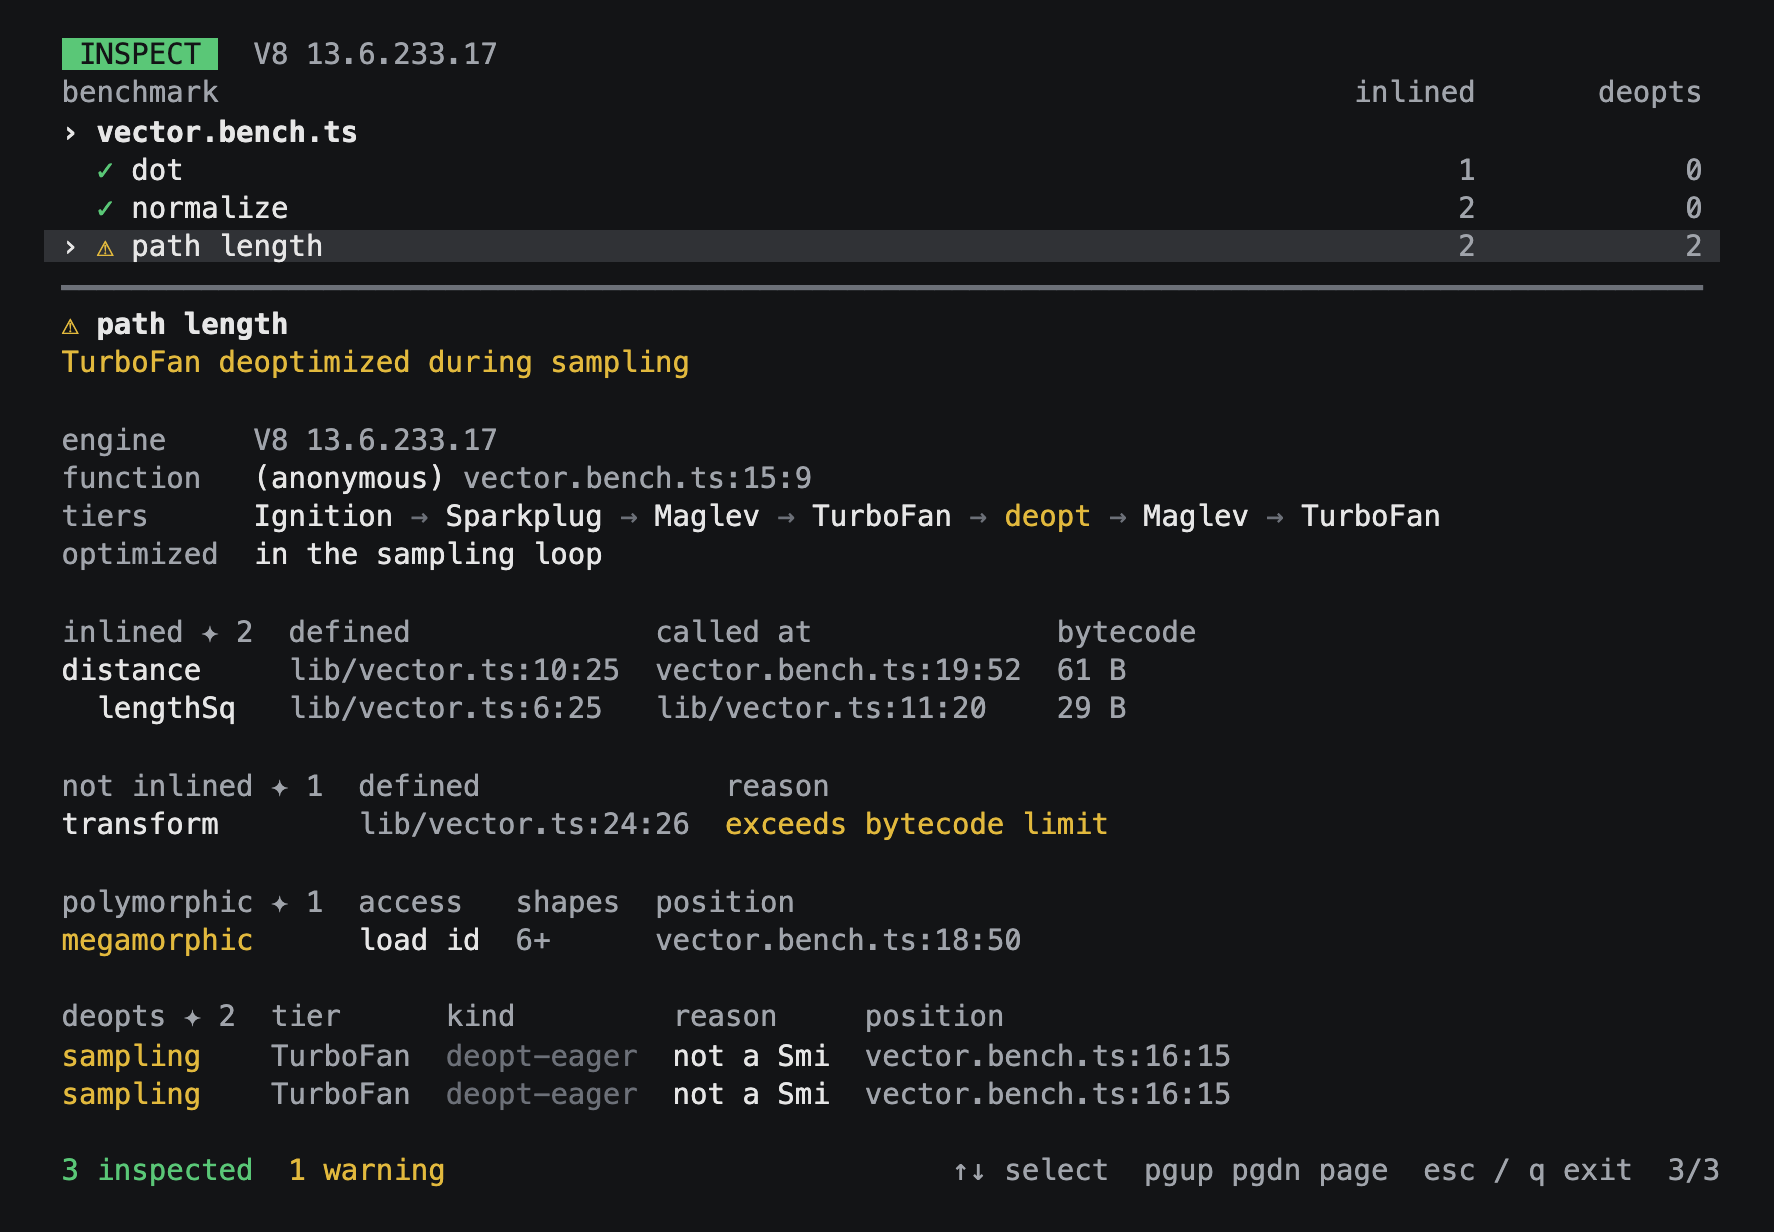
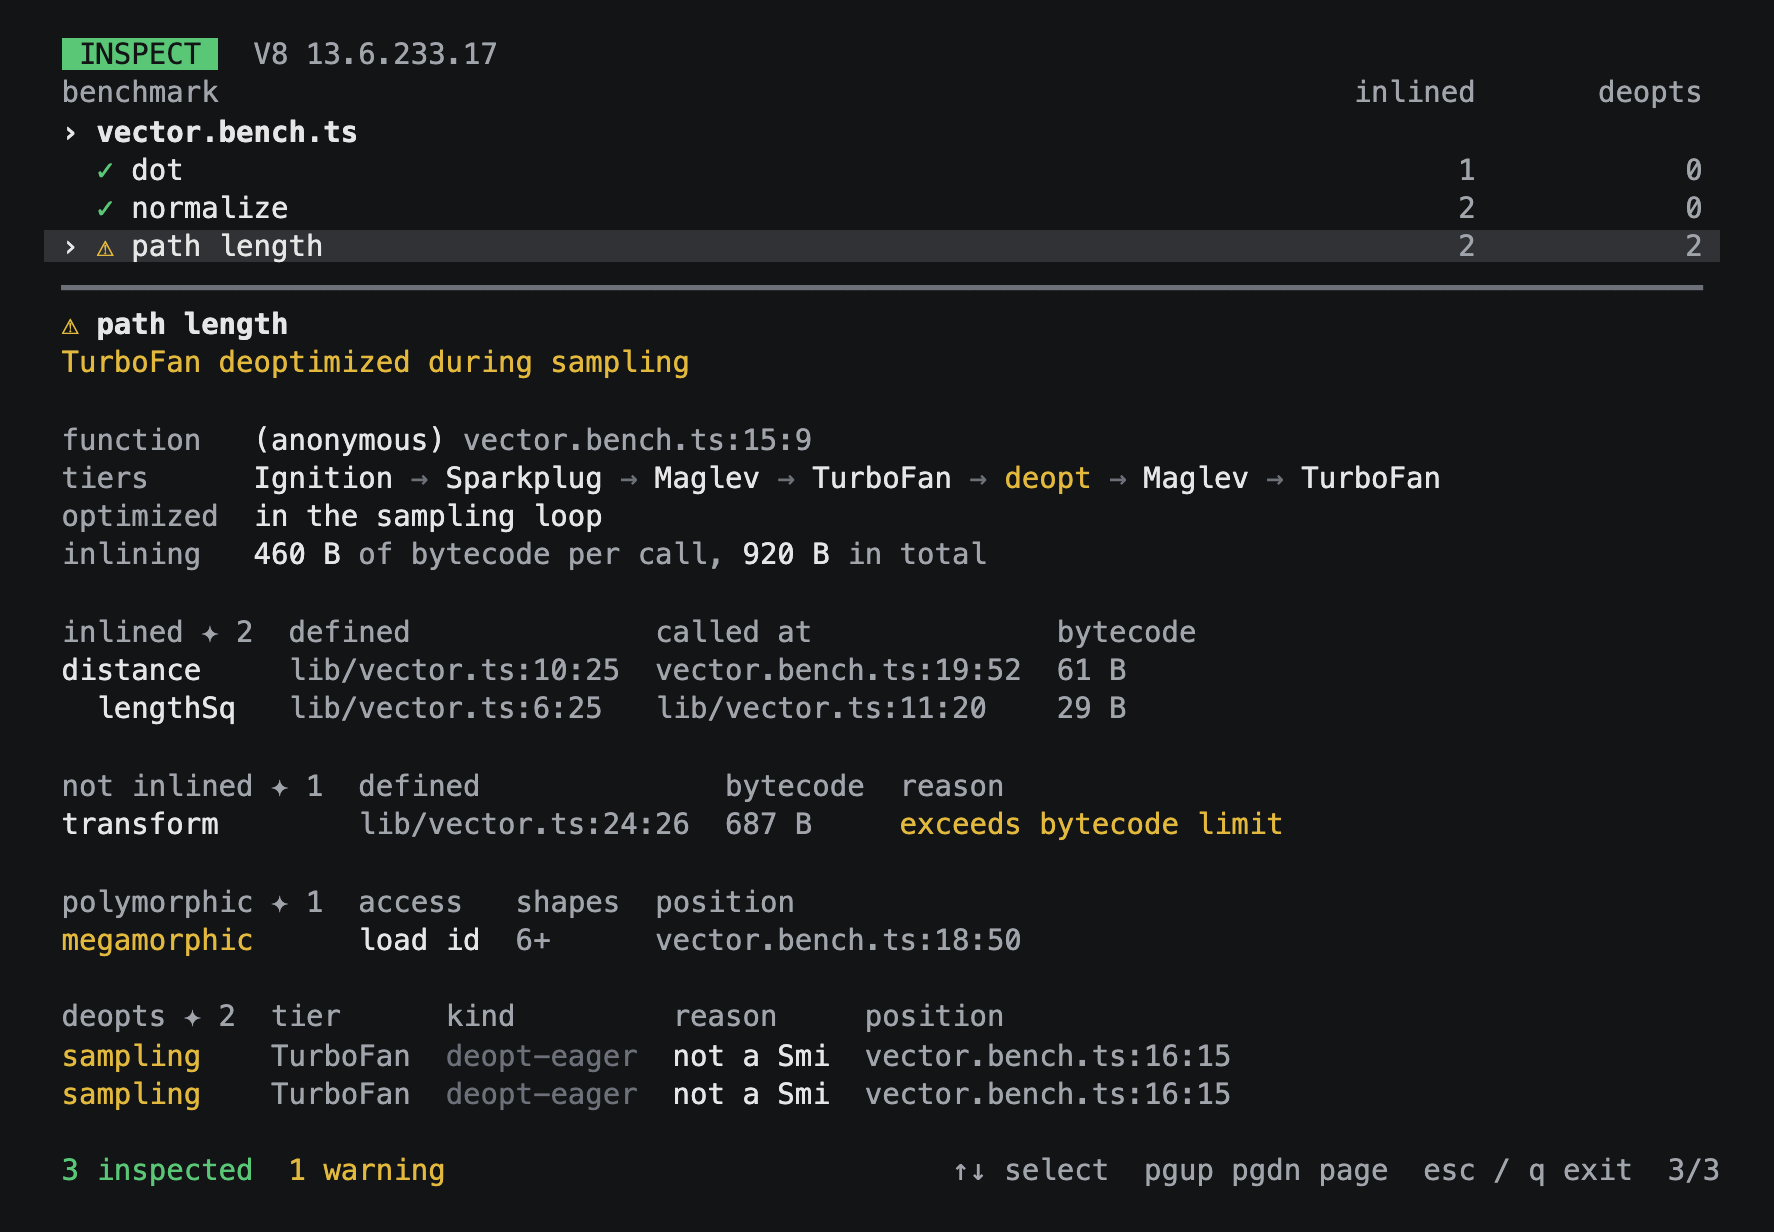
✨ List the bytecode of what a bench calls, with sizes and inlining limits

Changed region(s): [[0.031, 0.3393, 0.8061, 0.4627], [0.403, 0.6169, 0.7131, 0.6786]]

diff --git a/src/bench/node-inspect.ts b/src/bench/node-inspect.ts
@@ -1,3 +1,4 @@
+import { execFileSync } from 'node:child_process';
 import { readFileSync, readdirSync } from 'node:fs';
 import { isAbsolute, join, relative } from 'node:path';
 import { fileURLToPath } from 'node:url';
@@ -215,11 +216,16 @@ export function readNodeInspection(
   // The trace prints tagged pointers, one above the addresses in the log.
   const traced = (pointer: string) => sfis.ever.get(Number(pointer) - 1);
   const traces = readFileSync(join(directory, 'traces.txt'), 'utf8');
-  const sizes = new Map<number | undefined, number>();
-  for (const [, pointer, size] of traces.matchAll(
-    /- target: \S+ \{(0x[0-9a-f]+) <SharedFunctionInfo[^>]*>\}, bytecode size: (\d+)/g
+  // The trace holds the bytecode of every function, printed when it was compiled.
+  const listings = new Map<number | undefined, string>();
+  for (const [, pointer, listing] of traces.matchAll(
+    /^\[generated bytecode for function: [^\n]*\((0x[0-9a-f]+) <SharedFunctionInfo[^\n]*\n([^]*?)^(?:Handler Table|\[)/gm
   ))
-    sizes.set(traced(pointer), Number(size));
+    listings.set(traced(pointer), listing);
+  const bytes = (fn: number) => {
+    const length = /^Bytecode length: (\d+)/.exec(listings.get(fn) ?? '')?.[1];
+    return length === undefined ? null : Number(length);
+  };
   const calls = (code: Code, parent: number): InlinedCall[] =>
     code.inlined.flatMap((call, index) =>
       call.parent === parent
@@ -227,7 +233,7 @@ export function readNodeInspection(
             {
               ...named(call.fn),
               at: position(parent < 0 ? code.fn : code.inlined[parent].fn, call.offset),
-              bytecodeBytes: sizes.get(call.fn) ?? null,
+              bytecodeBytes: bytes(call.fn),
               calls: calls(code, index),
             },
           ]
@@ -237,6 +243,7 @@ export function readNodeInspection(
   // The trace of each optimizing compile lists every call it looked at, in
   // the order the log records the code those compiles produced.
   const rejected: Inspection['rejected'] = [];
+  const refused: number[] = [];
   const compile =
     host &&
     [
@@ -268,36 +275,45 @@ export function readNodeInspection(
       const file = functions.get(fn!)?.file ?? '';
       if (fn === undefined || fn === host.fn || fn === workload) continue;
       if (host.inlined.some((call) => call.fn === fn)) continue;
-      if (/^file:|^\/|^[A-Za-z]:/.test(file) && !file.startsWith(own))
-        rejected.push({ ...named(fn), reason });
+      if (!/^file:|^\/|^[A-Za-z]:/.test(file) || file.startsWith(own)) continue;
+      rejected.push({ ...named(fn), bytecodeBytes: bytes(fn), reason });
+      refused.push(fn);
     }
   }
 
   // The printed bytecode carries addresses and raw bytes that change every run.
-  const bytecode = (
-    [
-      ...traces.matchAll(
-        /^\[generated bytecode for function: [^\n]*\((0x[0-9a-f]+) <SharedFunctionInfo[^\n]*\n([^]*?)^(?:Handler Table|\[)/gm
-      ),
-    ].find((match) => traced(match[1]) === workload)?.[2] ?? ''
-  )
-    .split('\n')
-    .flatMap((row) => {
-      const [, offset, kind, index, operation] =
-        /^\s*(?:(\d+) ([SE])>)?\s*0x[0-9a-f]+ @\s+(\d+) : (?:[0-9a-f]{2} )+\s*(.*)$/.exec(row) ?? [];
-      if (index !== undefined) {
-        const source = position(workload, Number(offset)).replace(/^.*?(?=\d+:\d+$)/, '');
-        return [
-          `${(offset ? `${source} ${kind}>` : '').padStart(12)} ${index.padStart(5)} : ${operation.replace(/0x[0-9a-f]+ @ /, '@ ')}`,
-        ];
-      }
-      const constant = /^\s+(\d+): 0x[0-9a-f]+ (.*)$/.exec(row);
-      if (constant) return [`${''.padStart(12)} ${constant[1].padStart(5)} : ${constant[2]}`];
-      return /^(?:Bytecode length|Parameter count|Register count|Frame size|Constant pool)/.test(row)
-        ? [row]
-        : [];
-    })
-    .join('\n');
+  const listed = (fn: number) =>
+    listings
+      .get(fn)!
+      .split('\n')
+      .flatMap((row) => {
+        const [, offset, kind, index, operation] =
+          /^\s*(?:(\d+) ([SE])>)?\s*0x[0-9a-f]+ @\s+(\d+) : (?:[0-9a-f]{2} )+\s*(.*)$/.exec(row) ??
+          [];
+        if (index !== undefined) {
+          const source = position(fn, Number(offset)).replace(/^.*?(?=\d+:\d+$)/, '');
+          return [
+            `${(offset ? `${source} ${kind}>` : '').padStart(12)} ${index.padStart(5)} : ${operation.replaceAll(/0x[0-9a-f]+ /g, '')}`,
+          ];
+        }
+        const constant = /^\s+(\d+): 0x[0-9a-f]+ (.*)$/.exec(row);
+        if (constant)
+          return [
+            `${''.padStart(12)} ${constant[1].padStart(5)} : ${constant[2].replaceAll(/0x[0-9a-f]+ /g, '')}`,
+          ];
+        return /^(?:Bytecode length|Parameter count|Register count|Frame size|Constant pool)/.test(
+          row
+        )
+          ? [row]
+          : [];
+      });
+
+  // A size makes sense next to the limit it is held to. The engine lists its
+  // defaults, and a flag of the worker's own comes before them.
+  const options =
+    process.execArgv.join(' ') +
+    execFileSync(process.execPath, ['--v8-options'], { encoding: 'utf8' });
+  const limit = (flag: string) => Number(new RegExp(`--${flag}=(\\d+)`).exec(options)?.[1]) || null;
 
   const within = (code: Code, index: number): boolean =>
     code.fn === workload ||
@@ -358,6 +374,10 @@ export function readNodeInspection(
     workload: named(workload),
     tiers,
     optimized: !host ? null : host.fn === workload ? 'alone' : 'in-sampling-loop',
+    limits: {
+      inlineBytes: limit('max-inlined-bytecode-size'),
+      inlineTotalBytes: limit('max-inlined-bytecode-size-cumulative'),
+    },
     inlined: !host
       ? []
       : calls(
@@ -371,6 +391,11 @@ export function readNodeInspection(
         : []
     ),
     deopts: deopts.map(({ code: _, inlining: __, before: ___, ...deopt }) => deopt),
-    bytecode,
+    // The workload comes first, then what was inlined into it, then what was refused.
+    bytecode: [...new Set([...followed, ...refused])].flatMap((fn) =>
+      listings.has(fn) && !functions.get(fn)?.file.startsWith('node:')
+        ? [{ ...named(fn), listing: listed(fn) }]
+        : []
+    ),
   };
 }

diff --git a/tests/inspect.test.ts b/tests/inspect.test.ts
@@ -54,7 +54,8 @@ bench('path length', () => {
   for (let i = 1; i < points.length; i++) sum += dist(points[i - 1], points[i]) + big(points[i]);
   return sum;
 });`,
-      '--json'
+      '--json',
+      '--bytecode'
     );
     expect(output.status, output.stderr).toBe(0);
     const [bench] = JSON.parse(output.stdout).benches;
@@ -80,11 +81,29 @@ bench('path length', () => {
       },
     ]);
     expect(inspection.rejected).toEqual([
-      { name: 'big', source: `${vector}:5:20`, reason: 'exceeds bytecode limit' },
+      {
+        name: 'big',
+        source: `${vector}:5:20`,
+        bytecodeBytes: expect.any(Number),
+        reason: 'exceeds bytecode limit',
+      },
     ]);
+    // The refused call is larger than the size the engine says it will inline.
+    expect(inspection.rejected[0].bytecodeBytes).toBeGreaterThan(inspection.limits.inlineBytes);
     expect(inspection.deopts).toEqual([]);
     expect(['alone', 'in-sampling-loop']).toContain(inspection.optimized);
-    expect(inspection.bytecode).toBeNull();
+    // The bench comes first, then what it calls, each by source position and without addresses.
+    expect(inspection.bytecode.map((fn: { name: string }) => fn.name)).toEqual([
+      '',
+      'dist',
+      'lengthSq',
+      'big',
+    ]);
+    expect(inspection.bytecode[2].source).toBe(`${vector}:2:25`);
+    expect(inspection.bytecode[2].listing[0]).toMatch(/^Bytecode length: \d+$/);
+    expect(inspection.bytecode[2].listing.join('\n')).toMatch(/2:\d+ S>\s+0 : /);
+    expect(inspection.bytecode[2].listing.join('\n')).toMatch(/: Return/);
+    expect(JSON.stringify(inspection.bytecode)).not.toMatch(/0x[0-9a-f]{6,}/);
   });
 
   it(
@@ -135,10 +154,12 @@ bench('mixed shapes', () => {
       '--json'
     );
     expect(output.status, output.stderr).toBe(0);
-    expect(JSON.parse(output.stdout).benches[0].inspection.polymorphic).toEqual([
+    const { inspection } = JSON.parse(output.stdout).benches[0];
+    expect(inspection.polymorphic).toEqual([
       { state: 'polymorphic', access: 'load', key: 'x', shapes: 3, at: 'work.bench.ts:6:44' },
       { state: 'megamorphic', access: 'load', key: 'w', shapes: 6, at: 'work.bench.ts:7:39' },
     ]);
+    expect(inspection.bytecode).toBeNull();
   });
 
   it('follows functions, code, and shapes that a collection moves', { timeout: 70_000 }, () => {
@@ -184,6 +205,7 @@ bench('across a collection', work);`,
             workload: { name: '', source: 'work.bench.ts:4:22' },
             tiers: ['Ignition', 'TurboFan', 'deopt', 'TurboFan'],
             optimized: 'alone',
+            limits: { inlineBytes: 460, inlineTotalBytes: 920 },
             inlined: [
               {
                 name: 'dist',
@@ -194,7 +216,12 @@ bench('across a collection', work);`,
               },
             ],
             rejected: [
-              { name: 'big', source: 'lib/vector.ts:5:20', reason: 'exceeds bytecode limit' },
+              {
+                name: 'big',
+                source: 'lib/vector.ts:5:20',
+                bytecodeBytes: 612,
+                reason: 'exceeds bytecode limit',
+              },
             ],
             polymorphic: [
               {
@@ -236,7 +263,8 @@ bench('across a collection', work);`,
     expect(screen).toMatch(/› ✓ path length\s+1\s+1/);
     expect(screen).toMatch(/✗ broken\s+—\s+—/);
     expect(screen).toMatch(/dist\s+lib\/vector\.ts:3:21\s+work\.bench\.ts:6:50\s+61 B/);
-    expect(screen).toMatch(/big\s+lib\/vector\.ts:5:20\s+exceeds bytecode limit/);
+    expect(screen).toMatch(/big\s+lib\/vector\.ts:5:20\s+612 B\s+exceeds bytecode limit/);
+    expect(screen).toContain('460 B of bytecode per call, 920 B in total');
     expect(screen).toContain('Ignition → TurboFan → deopt → TurboFan');
     expect(screen).toMatch(/megamorphic\s+load area\s+5\+\s+shapes\.ts:2:37/);
     expect(screen).toMatch(/wrong map\s+lib\/vector\.ts:3:87 ← work\.bench\.ts:6:50/);

diff --git a/src/cli/inspect-view.ts b/src/cli/inspect-view.ts
@@ -65,7 +65,6 @@ function details(bench: Bench, width: number, colors: boolean): string[] {
       x += textWidth(text) + 1;
     }
   };
-  flow('engine', [{ text: inspection.engine, style: GRAY }]);
   flow('function', [
     { text: inspection.workload.name || '(anonymous)' },
     { text: inspection.workload.source, style: GRAY },
@@ -82,6 +81,15 @@ function details(bench: Bench, width: number, colors: boolean): string[] {
       ? { text: inspection.optimized === 'alone' ? 'alone' : 'in the sampling loop' }
       : { text: 'never by TurboFan while sampling', style: YELLOW },
   ]);
+
+  const { inlineBytes, inlineTotalBytes } = inspection.limits;
+  if (inlineBytes && inlineTotalBytes)
+    flow('inlining', [
+      { text: `${inlineBytes} B`, style: '' },
+      { text: 'of bytecode per call,', style: GRAY },
+      { text: `${inlineTotalBytes} B`, style: '' },
+      { text: 'in total', style: GRAY },
+    ]);
 
   // A table sizes each column to its widest cell. Where the pane is too
   // narrow for that, the last column moves to a line of its own under each row.
@@ -119,10 +127,11 @@ function details(bench: Bench, width: number, colors: boolean): string[] {
   );
   table(
     'not inlined',
-    ['defined', 'reason'],
+    ['defined', 'bytecode', 'reason'],
     inspection.rejected.map((call) => [
       { text: call.name || '(anonymous)' },
       { text: call.source, style: GRAY },
+      { text: call.bytecodeBytes === null ? '—' : `${call.bytecodeBytes} B`, style: GRAY },
       { text: call.reason, style: YELLOW },
     ])
   );
@@ -147,9 +156,10 @@ function details(bench: Bench, width: number, colors: boolean): string[] {
       { text: at.join(' ← '), style: GRAY },
     ])
   );
-  if (inspection.bytecode !== null) {
-    canvas.put((y += 2), 0, 'bytecode', GRAY);
-    for (const row of inspection.bytecode.split('\n')) canvas.put(++y, 0, row, GRAY);
+  for (const { name, source, listing } of inspection.bytecode ?? []) {
+    canvas.put((y += 2), 0, `bytecode ✦ ${name || '(anonymous)'}`, GRAY);
+    canvas.put(y, textWidth(`bytecode ✦ ${name || '(anonymous)'}`) + 2, source, GRAY);
+    for (const row of listing) canvas.put(++y, 0, row, GRAY);
   }
   return canvas.lines(colors);
 }
@@ -261,7 +271,10 @@ export async function showInspectReport(benches: Bench[]): Promise<void> {
     return openReportScreen((state) => renderInspectView(benches, state), benches.length);
   let file = '';
   for (const bench of benches) {
-    if (bench.file !== file) console.log(`\n${BLUE}▶ ${(file = bench.file)}${RESET}`);
+    if (bench.file !== file)
+      console.log(
+        `\n${BLUE}▶ ${(file = bench.file)}${RESET}  ${bench.inspection?.engine ?? ''}`.trimEnd()
+      );
     console.log();
     // A printed report is read and diffed, so no row is cut to fit a pane.
     for (const line of details(bench, 1000, false)) console.log(line.trimEnd());

diff --git a/src/bench/types.ts b/src/bench/types.ts
@@ -64,7 +64,10 @@ export interface InlinedCall extends InspectedFunction {
  * What V8 did with a workload up to the end of sampling. Positions read
  * `file:line:column`. A deopt lists its own position first, then the call
  * sites it was inlined through. `polymorphic` holds the property accesses
- * that saw more than one object shape. `tiers` is the path the workload took:
+ * that saw more than one object shape. `limits` holds the bytecode size the
+ * optimizer will inline for one call and for one function in total. A
+ * bytecode `listing` is one row per instruction, so a reader that cuts long
+ * lines still sees all of it. `tiers` is the path the workload took:
  * each tier it rose to and each point where a deopt sent it back down. V8 reports where an access is only
  * while its function runs unoptimized, so the shapes of a megamorphic access
  * are the ones seen by then and the count is a lower bound.
@@ -74,8 +77,9 @@ export interface Inspection {
   workload: InspectedFunction;
   tiers: Array<OptimizationTier | 'deopt'>;
   optimized: 'alone' | 'in-sampling-loop' | null;
+  limits: { inlineBytes: number | null; inlineTotalBytes: number | null };
   inlined: InlinedCall[];
-  rejected: Array<InspectedFunction & { reason: string }>;
+  rejected: Array<InspectedFunction & { bytecodeBytes: number | null; reason: string }>;
   polymorphic: Array<{
     state: 'polymorphic' | 'megamorphic';
     access: string;
@@ -90,7 +94,7 @@ export interface Inspection {
     reason: string;
     at: string[];
   }>;
-  bytecode: string;
+  bytecode: Array<InspectedFunction & { listing: string[] }>;
 }
 
 /** A stretch of V8's code log that a worker marked for its parent to read. */

diff --git a/src/cli/help.ts b/src/cli/help.ts
@@ -29,7 +29,7 @@ Options
       --no-save                 Run without saving
       --json                    Print judged results as JSON
       --fail-on-slower          Exit 1 when a compared bench is slower
-      --bytecode                Include the bytecode of each bench, inspect only
+      --bytecode                List the bytecode of each bench and what it calls, inspect only
   -h, --help                    Show this help`;
 }
 

diff --git a/README.md b/README.md
@@ -129,7 +129,7 @@ bench inspect vec3 @mytag
 
 Browse the findings in a full-screen view. Select a benchmark to see what was inlined, where objects change shape, and where optimized code was thrown away. Each finding points to a file and line.
 
-Agents are very good at this. Give one `bench inspect --json` and let it work through the findings.
+Agents are very good at this. Give one `bench inspect --json --bytecode` and let it work through the findings.
 
 <img src="docs/images/inspect.png" width="760" alt="Labs inspect view with a benchmark list and, for the selected bench, the tiers it reached, the calls that were inlined or refused, a megamorphic property access, and two deopts with their reasons and positions" />
 
@@ -138,11 +138,12 @@ Agents are very good at this. Give one `bench inspect --json` and let it work th
 
 - **tiers**: The compilers the code went through, in order. `deopt` means optimized code was thrown away and it had to climb again.
 - **optimized**: `alone` if the code was optimized by itself, or `in the sampling loop` if it was inlined into the loop Labs times it in.
+- **inlining**: The bytecode size the optimizer will inline for one call, and for one function in total.
 - **inlined**: Calls replaced with the body of the function. Each shows where the function is defined, where it is called, and its bytecode size.
-- **not inlined**: Calls the optimizer looked at and left as calls, with the reason.
+- **not inlined**: Calls the optimizer looked at and left as calls, with their bytecode size and the reason.
 - **polymorphic**: Property accesses that saw more than one object shape. `megamorphic` means too many to track, which is slow. Its count is a lower bound.
 - **deopts**: Each time optimized code was thrown away, with the reason and where it happened.
-- **bytecode**: With `--bytecode`, the bytecode of each bench. Addresses are left out so two reports can be diffed.
+- **bytecode**: With `--bytecode`, the bytecode of the bench and of every function listed under inlined and not inlined, by source position. Addresses are left out so two reports can be diffed.
 
 </details>
 
@@ -368,7 +369,7 @@ pnpm bench inspect --json               # what the engine did with each bench
 
 With `--json`, stdout holds only the JSON document and everything else goes to stderr. Each bench has a `status` (`passed`, `warning`, or `failed`), a `problem` and `advice` when it has one, and its `minDetectableChange`. Comparison verdicts are `faster`, `slower`, `neutral`, `inconclusive` (neutral, but a `minDelta` change could have been missed), `changed`, `failed`, `skipped`, or `missing`.
 
-An inspection gives each bench the same `status`, `problem` and `advice` a run gives it, with what the engine did under `inspection`, or `null` when the bench failed or the engine reported nothing. Its `bytecode` is `null` unless `--bytecode` is passed.
+An inspection gives each bench the same `status`, `problem` and `advice` a run gives it, with what the engine did under `inspection`, or `null` when the bench failed or the engine reported nothing. Under `inspection`, `tiers` is the path through the compilers, `inlined` and `rejected` list calls with their `bytecodeBytes`, `limits` holds the sizes the optimizer will inline, and `polymorphic` and `deopts` name positions as `file:line:column`. `bytecode` is `null` unless `--bytecode` is passed. With it, each function has a `listing` of one row per instruction.
 
 Failed checks and changed output exit with 1. With `--fail-on-slower`, a slower bench also exits with 1, and a comparison that could have missed a change exits with 2: an inconclusive or skipped bench, or a candidate that ran on an unstable machine.
 
@@ -378,7 +379,7 @@ Failed checks and changed output exit with 1. With `--fail-on-slower`, a slower 
 
 ```sh
 pnpm bench inspect vector              # every bench in the matching file
-pnpm bench inspect vector --bytecode   # also list the bytecode of each workload
+pnpm bench inspect vector --bytecode   # also list the bytecode of each bench and what it calls
 pnpm bench inspect --json              # the same report as JSON on stdout
 ```
 
@@ -388,17 +389,17 @@ Outside a terminal the findings print as text:
 ⚠ path length
 TurboFan deoptimized during sampling
 
-engine     V8 13.6.233.17
 function   (anonymous) vector.bench.ts:15:9
 tiers      Ignition → Sparkplug → Maglev → TurboFan → deopt → Maglev → TurboFan
 optimized  in the sampling loop
+inlining   460 B of bytecode per call, 920 B in total
 
 inlined ✦ 2  defined              called at              bytecode
 distance     lib/vector.ts:10:25  vector.bench.ts:19:52  61 B
   lengthSq   lib/vector.ts:6:25   lib/vector.ts:11:20    29 B
 
-not inlined ✦ 1  defined              reason
-transform        lib/vector.ts:24:26  exceeds bytecode limit
+not inlined ✦ 1  defined              bytecode  reason
+transform        lib/vector.ts:24:26  687 B     exceeds bytecode limit
 
 polymorphic ✦ 1  access   shapes  position
 megamorphic      load id  6+      vector.bench.ts:18:50
